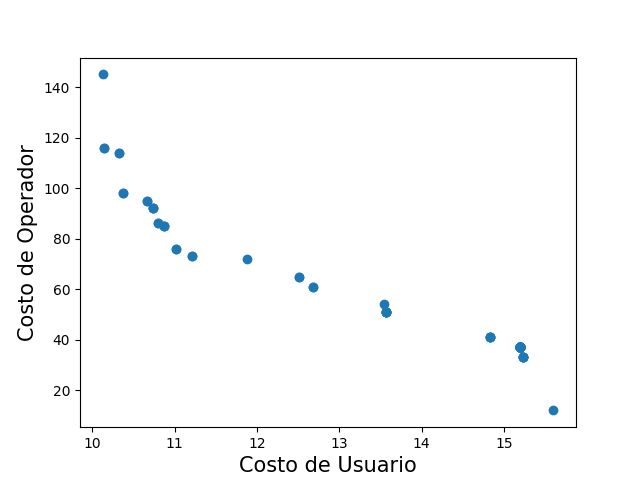
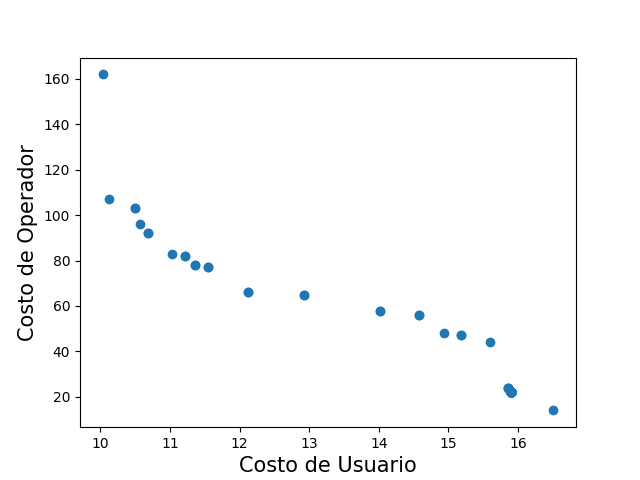
add new convergence metrics

diff --git a/app.py b/app.py
@@ -17,7 +17,6 @@ def get_reference_point(pareto_front):
         if sol.objectives[1] > worst_f2:
             worst_f2 = sol.objectives[1]
 
-    
     return [worst_f1 * 1.2, worst_f2 * 1.2]
 
 def calculate_hypervolume(pareto_front_list):
@@ -185,26 +184,26 @@ if __name__ == "__main__":
     #     min_route=2,
     #     max_route=8)
     
-    # run_sequential(network_name='mumford0', num_nodes=30, 
-    #     links_file="networks/Mumford0/mumford0_links.csv",
-    #     demand_file="networks/Mumford0/mumford0_demand.csv",
-    #     nodes_file="networks/Mumford0/mumford0_nodes.csv",
-    #     num_of_individuals=100,
-    #     generations=100,
-    #     num_routes=12,
-    #     min_route=2,
-    #     max_route=15)
-
-
-    run_parallel(network_name='mumford0', num_nodes=30, 
+    run_sequential(network_name='mumford0', num_nodes=30, 
         links_file="networks/Mumford0/mumford0_links.csv",
         demand_file="networks/Mumford0/mumford0_demand.csv",
         nodes_file="networks/Mumford0/mumford0_nodes.csv",
-        num_population=100,
-        num_of_generations=100,
-        num_islands=4,
-        migration_every_gen=8,
-        num_migrants=4,
+        num_of_individuals=100,
+        generations=100,
         num_routes=12,
         min_route=2,
         max_route=15)
+
+
+    # run_parallel(network_name='mumford0', num_nodes=30, 
+    #     links_file="networks/Mumford0/mumford0_links.csv",
+    #     demand_file="networks/Mumford0/mumford0_demand.csv",
+    #     nodes_file="networks/Mumford0/mumford0_nodes.csv",
+    #     num_population=100,
+    #     num_of_generations=100,
+    #     num_islands=4,
+    #     migration_every_gen=8,
+    #     num_migrants=4,
+    #     num_routes=12,
+    #     min_route=2,
+    #     max_route=15)

diff --git a/nsga2.py b/nsga2.py
@@ -5,6 +5,9 @@ from population import Population
 from routeset import RouteSet
 import copy
 import time
+import matplotlib.pyplot as plt
+
+from calculate_hypervolume import calculate_hypervolume
 
 class NSGAII:
     def __init__(self, generations, num_of_individuals, tndp, num_of_routes, num_of_tour_particips, tournament_prob, min_route, max_route):
@@ -276,6 +279,7 @@ class NSGAII:
         children = self.create_children(self.population)
         returned_population = None
 
+        hypervolume_values = []
 
         for _ in range(self.generations):
             #print("Generacion {}".format(_))
@@ -310,5 +314,22 @@ class NSGAII:
             print("Promedio F2 en Generacion {}: {}".format(_ + 1, obj_2 / len(returned_population.fronts[0])))
 
 
+            pareto = returned_population.fronts[0]
+            hv = calculate_hypervolume(pareto)
+            hypervolume_values.append(hv)
+
+        generations = np.arange(1, 101)  # 100 generations
+
+        # Plot the hypervolume convergence
+        plt.figure(figsize=(10, 6))
+        plt.plot(generations, hypervolume_values, label="Hypervolume", color="blue", marker="o")
+        plt.title("Convergence Plot: Hypervolume Indicator")
+        plt.xlabel("Generation")
+        plt.ylabel("Hypervolume")
+        plt.grid(True)
+        plt.legend()
+        plt.show()            
+
         return returned_population.fronts[0]
+
             

diff --git a/calculate_hypervolume.py b/calculate_hypervolume.py
@@ -1,0 +1,40 @@
+import numpy as np
+
+def get_reference_point(pareto_front):
+    worst_f1 = 0
+    for sol in pareto_front:
+        if sol.objectives[0] > worst_f1:
+            worst_f1 = sol.objectives[0]
+    worst_f2 = 0
+    for sol in pareto_front:
+        if sol.objectives[1] > worst_f2:
+            worst_f2 = sol.objectives[1]
+    return [worst_f1 * 1.2, worst_f2 * 1.2]
+
+
+def calculate_hypervolume(pareto_front_list):
+
+    reference_point = get_reference_point(pareto_front_list)
+
+    func = [i.objectives for i in pareto_front_list]
+
+    pareto_front = [[i[0], i[1]] for i in func]
+    
+    pareto_front = np.array(pareto_front)
+    reference_point = np.array(reference_point)
+
+    if pareto_front.shape[1] != len(reference_point):
+        raise ValueError("The dimensions of the Pareto front and reference point do not match.")
+
+    pareto_front = pareto_front[np.argsort(-pareto_front[:, 0])]
+
+    hypervolume = 0.0
+    previous_point = reference_point.copy()
+
+    for point in pareto_front:
+        volume = np.prod(previous_point - point)
+        hypervolume += volume
+
+        previous_point = point
+
+    return hypervolume

diff --git a/webada.py b/webada.py
@@ -1,0 +1,16 @@
+import numpy as np
+import matplotlib.pyplot as plt
+
+# Example: Simulated hypervolume values over generations
+generations = np.arange(1, 301)  # 100 generations
+hypervolume_values = np.random.uniform(0.7, 1.0, len(generations))  # Simulated values
+
+# Plot the hypervolume convergence
+plt.figure(figsize=(10, 6))
+plt.plot(generations, hypervolume_values, label="Hypervolume", color="blue", marker="o")
+plt.title("Convergence Plot: Hypervolume Indicator")
+plt.xlabel("Generation")
+plt.ylabel("Hypervolume")
+plt.grid(True)
+plt.legend()
+plt.show()
